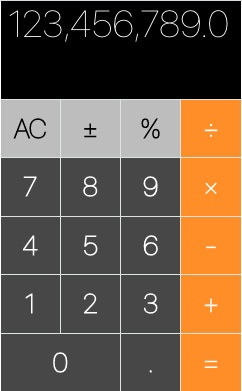
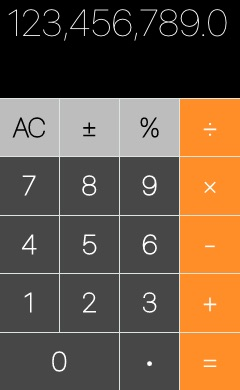
demo upload

diff --git a/src/components/App.js b/src/components/App.js
@@ -12,10 +12,15 @@ function App() {
     "7", "8", '9', '×',
     '4', '5', '6', '-',
     '1', '2', '3', '+',
-    '0', '.', '='
-]
+    '0', '•', '='
+  ]
 
-  const button = keys.map(elem => <Button key={elem}>{elem}</Button>)
+  const displayData = (val) => {
+    console.log(val)
+    return setDisplay(val)
+  }
+
+  const button = keys.map(elem => <Button key={elem} onClick={(elem) => displayData(elem)}>{elem}</Button>)
 
   
   return (

diff --git a/src/components/Button.js b/src/components/Button.js
@@ -30,6 +30,7 @@ export const Button = props => {
     return (
         <div
             className={`button-wrapper ${keyType(props.children)}`}
+            // onClick={e => props.displayData(e)}
         >
             {props.children}
         </div>
